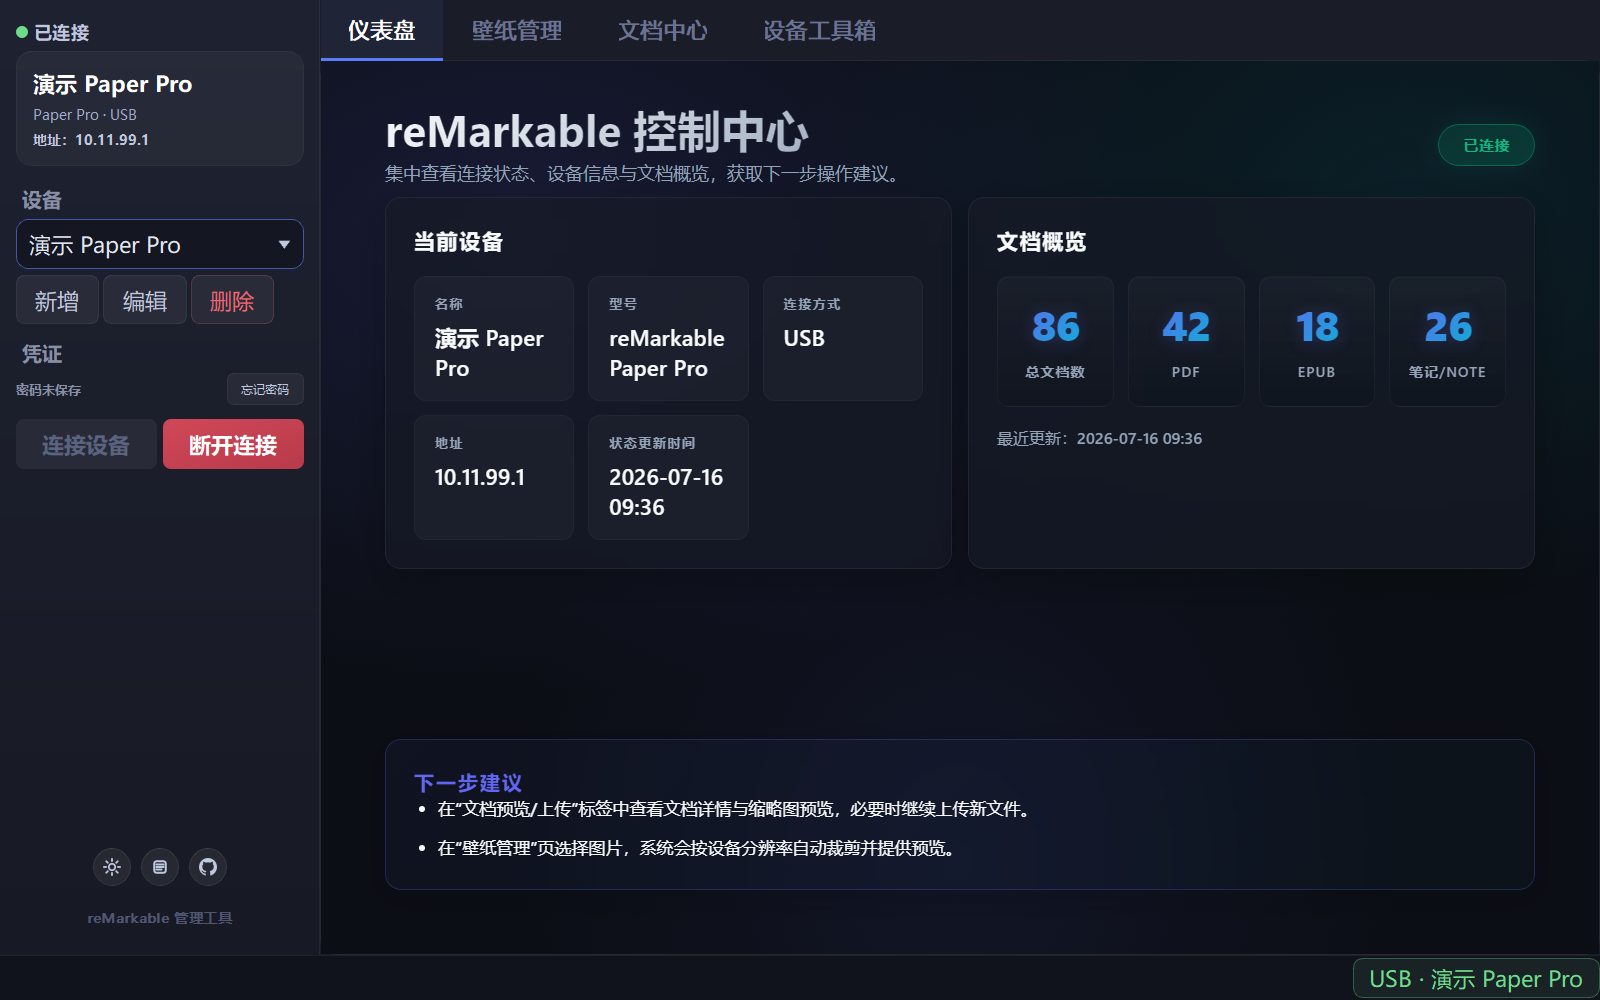
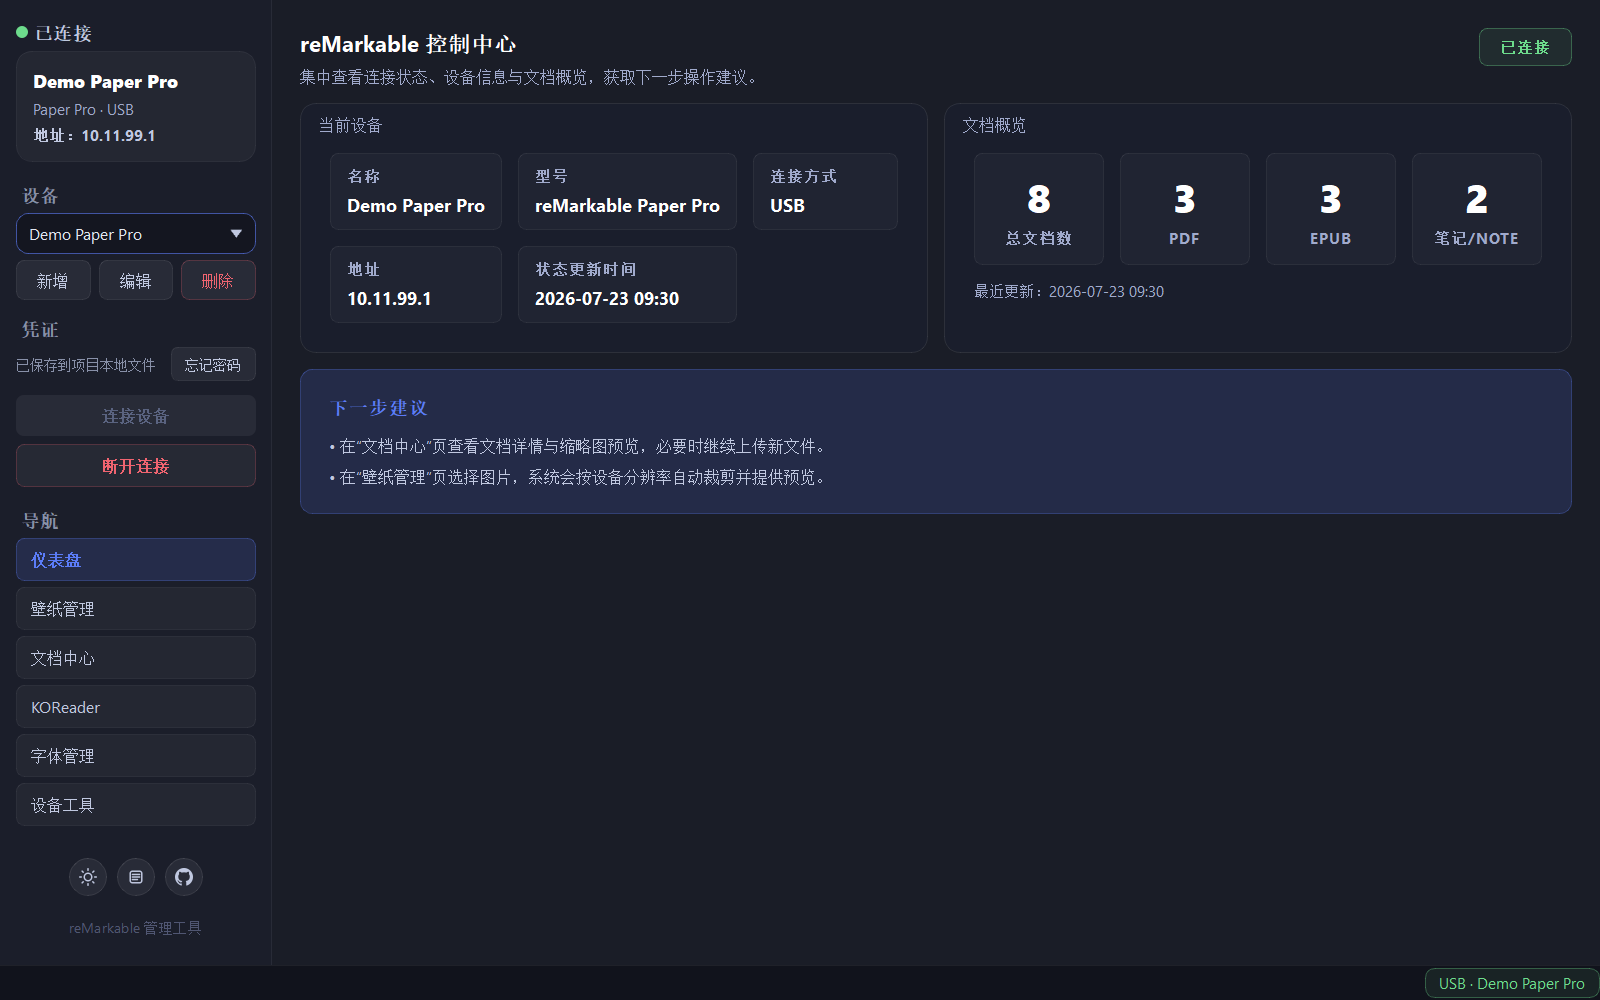
chore(release): prepare v1.4.4

diff --git a/docs/releases/v1.4.4.md b/docs/releases/v1.4.4.md
@@ -1,0 +1,76 @@
+# rmtool v1.4.4
+
+## English
+
+> Reliability and boundary hardening for shared SSH access, KOReader library
+> management, and localization font recovery, plus refreshed documentation and
+> screenshots for the current sidebar interface.
+
+### Connection reliability
+
+- All SSH commands and complete SFTP sessions are now serialized in the shared
+  connection wrapper. Manual actions and post-connect background refreshes can
+  no longer open overlapping channels that may cause the device's Dropbear SSH
+  server to disconnect.
+- Existing background operations remain asynchronous, so the desktop interface
+  stays responsive while device operations wait their turn.
+
+### KOReader safety
+
+- KOReader browsing, upload, download, deletion, and folder creation are now
+  confined to the initially resolved library root.
+- Remote paths are canonicalized before use, blocking both lexical `..` escapes
+  and symlink-based escapes into unrelated device directories.
+- The regular KOReader library workflow remains unchanged for files and folders
+  inside the selected root.
+
+### Localization recovery
+
+- Stale localization backups now restore a valid rmtool-managed font and the
+  exact pre-localization Fontconfig data before managed state is removed.
+- Malformed font markers are handled conservatively: the invalid marker is
+  removed without deleting fonts, Fontconfig data, or backups whose ownership
+  cannot be verified safely.
+
+### Documentation
+
+- English and Chinese README content now reflects the native dashboard, local
+  state paths, carousel backup behavior, KOReader management, portrait wallpaper
+  behavior, and current firmware support.
+- The old top-tab screenshots have been replaced by six sanitized `1600x1000`
+  screenshots of the dashboard, wallpaper manager, document center, KOReader
+  library, font manager, and device toolbox.
+
+## 中文
+
+> 加固共享 SSH 连接、KOReader 书库边界和汉化字体恢复流程，并更新文档与
+> 截图以展示当前左侧导航界面。
+
+### 连接可靠性
+
+- 共享连接层现在会串行执行所有 SSH 命令和完整 SFTP 会话。手动操作与
+  连接后的后台刷新不再并发打开多个通道，避免设备端 Dropbear SSH 服务
+  因通道突发而断开连接。
+- 后台操作仍在工作线程中执行，等待连接资源时不会阻塞桌面界面。
+
+### KOReader 安全边界
+
+- KOReader 的浏览、上传、下载、删除和新建文件夹操作现在都限制在首次
+  解析得到的书库根目录内。
+- 使用远端真实路径校验，能够同时阻止 `..` 路径越界和符号链接越界，
+  避免操作到设备上的无关目录。
+- 书库根目录内原有的文件与文件夹管理流程保持不变。
+
+### 汉化恢复
+
+- 清理失效汉化备份前，会先恢复有效的 rmtool 托管字体，并逐字节还原
+  汉化前的 Fontconfig 配置，再移除托管状态。
+- 遇到损坏的字体标记时采用保守策略：只移除无法解析的标记，不删除
+  无法安全确认归属的字体、Fontconfig 配置或备份。
+
+### 文档
+
+- 中英文 README 已同步当前原生仪表盘、本地状态目录、休眠轮播备份、
+  KOReader 管理、竖屏壁纸行为和现有固件支持情况。
+- 旧版顶部标签页截图已替换为六张脱敏的 `1600x1000` 新图，覆盖仪表盘、
+  壁纸管理、文档中心、KOReader 书库、字体管理和设备工具箱。

diff --git a/README.md b/README.md
@@ -24,18 +24,28 @@ rmtool manages reMarkable Paper Pro, Paper Pro Move, Paper Pure, reMarkable 1, a
       <sub><b>Dashboard</b></sub>
     </td>
     <td width="50%" align="center">
-      <a href="assets/screenshots/02-documents.png"><img src="assets/screenshots/02-documents.png" alt="rmtool document center" width="100%"></a><br>
-      <sub><b>Document Center</b></sub>
+      <a href="assets/screenshots/02-wallpaper.png"><img src="assets/screenshots/02-wallpaper.png" alt="rmtool wallpaper management" width="100%"></a><br>
+      <sub><b>Wallpaper Management</b></sub>
     </td>
   </tr>
   <tr>
     <td width="50%" align="center">
-      <a href="assets/screenshots/03-wallpaper.png"><img src="assets/screenshots/03-wallpaper.png" alt="rmtool wallpaper management" width="100%"></a><br>
-      <sub><b>Wallpaper Management</b></sub>
+      <a href="assets/screenshots/03-documents.png"><img src="assets/screenshots/03-documents.png" alt="rmtool document center" width="100%"></a><br>
+      <sub><b>Document Center</b></sub>
     </td>
     <td width="50%" align="center">
-      <a href="assets/screenshots/04-localization.png"><img src="assets/screenshots/04-localization.png" alt="rmtool system localization" width="100%"></a><br>
-      <sub><b>System Localization</b></sub>
+      <a href="assets/screenshots/04-koreader.png"><img src="assets/screenshots/04-koreader.png" alt="rmtool KOReader library manager" width="100%"></a><br>
+      <sub><b>KOReader Library</b></sub>
+    </td>
+  </tr>
+  <tr>
+    <td width="50%" align="center">
+      <a href="assets/screenshots/05-fonts.png"><img src="assets/screenshots/05-fonts.png" alt="rmtool font management" width="100%"></a><br>
+      <sub><b>Font Management</b></sub>
+    </td>
+    <td width="50%" align="center">
+      <a href="assets/screenshots/06-toolbox.png"><img src="assets/screenshots/06-toolbox.png" alt="rmtool device toolbox" width="100%"></a><br>
+      <sub><b>Device Toolbox</b></sub>
     </td>
   </tr>
 </table>

diff --git a/README.zh-CN.md b/README.zh-CN.md
@@ -24,18 +24,28 @@ rmtool 通过本地 root SSH 管理 reMarkable Paper Pro、Paper Pro Move、Pape
       <sub><b>仪表盘</b></sub>
     </td>
     <td width="50%" align="center">
-      <a href="assets/screenshots/02-documents.png"><img src="assets/screenshots/02-documents.png" alt="rmtool 文档中心" width="100%"></a><br>
-      <sub><b>文档中心</b></sub>
+      <a href="assets/screenshots/02-wallpaper.png"><img src="assets/screenshots/02-wallpaper.png" alt="rmtool 壁纸管理" width="100%"></a><br>
+      <sub><b>壁纸管理</b></sub>
     </td>
   </tr>
   <tr>
     <td width="50%" align="center">
-      <a href="assets/screenshots/03-wallpaper.png"><img src="assets/screenshots/03-wallpaper.png" alt="rmtool 壁纸管理" width="100%"></a><br>
-      <sub><b>壁纸管理</b></sub>
+      <a href="assets/screenshots/03-documents.png"><img src="assets/screenshots/03-documents.png" alt="rmtool 文档中心" width="100%"></a><br>
+      <sub><b>文档中心</b></sub>
     </td>
     <td width="50%" align="center">
-      <a href="assets/screenshots/04-localization.png"><img src="assets/screenshots/04-localization.png" alt="rmtool 系统汉化" width="100%"></a><br>
-      <sub><b>系统汉化</b></sub>
+      <a href="assets/screenshots/04-koreader.png"><img src="assets/screenshots/04-koreader.png" alt="rmtool KOReader 书库管理" width="100%"></a><br>
+      <sub><b>KOReader 书库</b></sub>
+    </td>
+  </tr>
+  <tr>
+    <td width="50%" align="center">
+      <a href="assets/screenshots/05-fonts.png"><img src="assets/screenshots/05-fonts.png" alt="rmtool 字体管理" width="100%"></a><br>
+      <sub><b>字体管理</b></sub>
+    </td>
+    <td width="50%" align="center">
+      <a href="assets/screenshots/06-toolbox.png"><img src="assets/screenshots/06-toolbox.png" alt="rmtool 设备工具箱" width="100%"></a><br>
+      <sub><b>设备工具箱</b></sub>
     </td>
   </tr>
 </table>